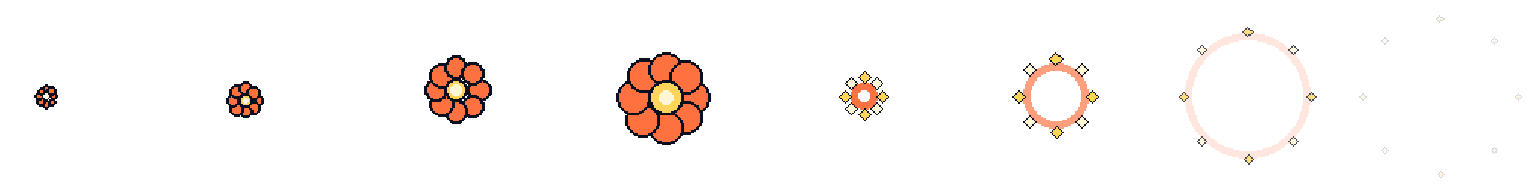
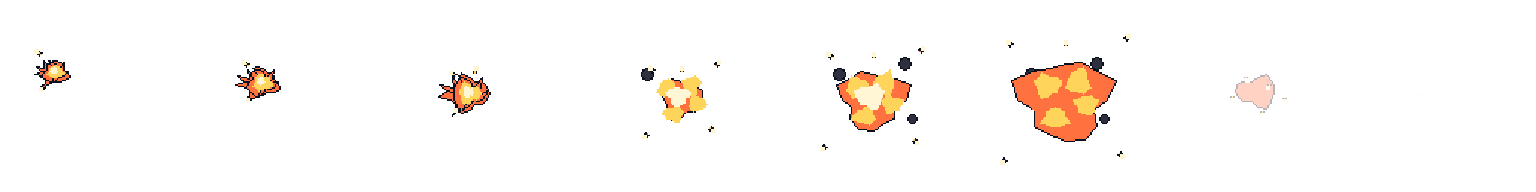
fix(fx): redraw fireball as a real fireball and explosion (T43)

diff --git a/tools/art/make_skill_fx.py b/tools/art/make_skill_fx.py
@@ -100,31 +100,107 @@ def frame(skill, index, n, size):
                         WHITE if t < .82 else GOLD)
 
     elif skill == "fireball":
-        # Ember swells and wobbles, then leaves an expanding ring and embers.
-        if t < .54:
-            q = ease(t/.54)
-            r = 5 + 17*q
-            x = int(31 + 33*ease(t/.54))
-            y = int(64 + math.sin(t*math.pi*5)*4)
-            for k in range(8):
-                a = k*math.pi/4
-                wobble = 1 + .09*math.sin(t*math.pi*8+k)
-                xx, yy = x+math.cos(a)*r*wobble, y+math.sin(a)*r*wobble
-                d.ellipse((int(xx-r*.55),int(yy-r*.55),int(xx+r*.55),int(yy+r*.55)),
-                          fill=RED, outline=NAVY, width=2)
-            d.ellipse((x-r*.55,y-r*.55,x+r*.55,y+r*.55),fill=GOLD,outline=NAVY,width=2)
-            d.ellipse((x-r*.24,y-r*.24,x+r*.24,y+r*.24),fill=WHITE)
+        # A compact, uneven flame travels into a blobby impact and breaks into embers.
+        def fire_blob(cx, cy, rx, ry, phase, color, alpha=255, outline=True):
+            points = []
+            for k in range(16):
+                a = 2 * math.pi * k / 16
+                wobble = (1 + .18 * math.sin(3 * a + phase)
+                          + .11 * math.sin(5 * a - phase) + .05 * math.sin(7 * a + phase))
+                points.append((int(cx + math.cos(a) * rx * wobble),
+                               int(cy + math.sin(a) * ry * wobble)))
+            d.polygon(points, fill=(*ImageColor(color), alpha),
+                      outline=(10, 16, 32, alpha) if outline else None)
+
+        def ImageColor(color):
+            if isinstance(color, tuple):
+                return color
+            return tuple(int(color[i:i+2], 16) for i in (1, 3, 5))
+
+        def flame_tail(cx, cy, scale, alpha=255):
+            # Three pointed tongues stream back along the projectile's path.
+            tongues = [
+                [(-4, -3), (-11, -10), (-10, -3), (-18, -5), (-12, 1), (-5, 2)],
+                [(-5, 1), (-13, -1), (-19, 2), (-12, 4), (-8, 8), (-4, 4)],
+                [(-3, 4), (-9, 8), (-11, 14), (-5, 10), (0, 7)],
+            ]
+            for j, tongue in enumerate(tongues):
+                pts = [(int(cx + x * scale), int(cy + y * scale)) for x, y in tongue]
+                color = RED if j == 0 else (255, 113, 63)
+                if isinstance(color, str):
+                    color = ImageColor(color)
+                d.polygon(pts, fill=(*color, alpha), outline=(10, 16, 32, alpha))
+
+        def spark(x, y, dx, dy, alpha=255, color=GOLD):
+            # Short square streak plus a bright block at its tip.
+            line([(int(x), int(y)), (int(x + dx), int(y + dy))], (10, 16, 32, alpha), 3)
+            line([(int(x), int(y)), (int(x + dx), int(y + dy))], (*ImageColor(color), alpha), 1)
+            d.rectangle((int(x + dx) - 1, int(y + dy) - 1,
+                         int(x + dx) + 1, int(y + dy) + 1), fill=(*ImageColor(WHITE), alpha))
+
+        if index <= 2:
+            # Move down-right while the fireball grows; all tongues trail upper-left.
+            q = index / 2
+            cx, cy = 37 + index * 10, 48 + index * 7
+            scale = .72 + q * .36
+            flame_tail(cx, cy, scale, 255)
+            fire_blob(cx, cy, 8 + index * 2, 7 + index * 2, index * .8, RED)
+            fire_blob(cx, cy, 6 + index, 5 + index, index * .8 + .5,
+                      (255, 113, 63), outline=False)
+            # Uneven orange tongues break the silhouette so it reads as fire, not petals.
+            for pts in (
+                [(-4, -5), (-8, -12), (-1, -9), (2, -5)],
+                [(3, -5), (8, -11), (7, -4), (5, -1)],
+                [(5, 1), (12, -2), (8, 4), (4, 5)],
+                [(-2, 5), (-5, 11), (-1, 8), (2, 5)],
+            ):
+                shape = [(cx + int(x * scale), cy + int(y * scale)) for x, y in pts]
+                d.polygon(shape, fill=(255, 113, 63, 255), outline=(10, 16, 32, 255))
+            fire_blob(cx, cy, 5 + index, 4 + index, index * .8, GOLD, outline=False)
+            fire_blob(cx - 1, cy - 1, 2 + index // 2, 2 + index // 2,
+                      index * .8, WHITE, outline=False)
+            spark(cx - 10, cy - 12, -3, -2)
+            spark(cx - 8, cy + 9, -2, 2, color=RED)
+            if index == 2:
+                spark(cx + 3, cy - 14, 1, -3)
+        elif index <= 5:
+            # Irregular blast swells over three frames; dark puffs and embers escape it.
+            q = (index - 3) / 2
+            cx, cy = 70, 66
+            rx, ry = 13 + q * 17, 12 + q * 14
+            # Smoke stays behind the flame, pushed outward as the blast grows.
+            for dx, dy, r in ((-23, -17, 4), (21, -24, 4), (26, 13, 3)):
+                if index >= 4 or dx < 0:
+                    d.ellipse((cx + dx - r, cy + dy - r, cx + dx + r, cy + dy + r),
+                              fill=(46, 48, 62, 255), outline=(10, 16, 32, 255))
+            fire_blob(cx, cy, rx, ry, index * .7, RED)
+            fire_blob(cx, cy, rx * .78, ry * .76, index * .7 + .8, (255, 113, 63), outline=False)
+            # Broken hot lobes keep the blast chunky and asymmetrical.
+            for dx, dy, sx, sy in ((-9, -7, 8, 7), (7, -9, 7, 8),
+                                   (11, 3, 7, 6), (-5, 10, 8, 6)):
+                fire_blob(cx + dx * (1 + q * .3), cy + dy * (1 + q * .3),
+                          sx * (.8 + q * .25), sy * (.8 + q * .25),
+                          index + dx, GOLD, outline=False)
+            if index < 5:
+                fire_blob(cx - 2, cy - 2, 7 + q * 4, 6 + q * 3,
+                          index, WHITE, outline=False)
+            for j, (sx, sy) in enumerate(((-1, -1), (1, -1), (1, 1), (-1, 1), (0, -1))):
+                distance = 19 + q * 17 + (j % 2) * 4
+                ex, ey = cx + sx * distance, cy + sy * distance
+                spark(ex, ey, sx * 2, sy * 2, color=GOLD if j % 2 == 0 else RED)
         else:
-            q = ease((t-.54)/.46)
-            radius = 8 + 43*q
-            alpha = int(255*(1-q))
-            d.ellipse((64-radius,64-radius,64+radius,64+radius),
-                      outline=(255,113,63,alpha),width=5)
-            for k in range(8):
-                a=k*math.pi/4
-                dist=12+40*q
-                x,y=64+math.cos(a)*dist,64+math.sin(a)*dist
-                diamond(x,y,max(2,4-int(q*2)),WHITE if k%2 else GOLD)
+            # The blast lifts and collapses; only dim falling embers remain at f7.
+            q = index - 6
+            cx, cy = 70 - q * 4, 61 - q * 7
+            alpha = 105 if index == 6 else 20
+            if index == 6:
+                fire_blob(cx, cy, 13, 10, 4.5, RED, alpha)
+                fire_blob(cx, cy, 8, 6, 4.5, (255, 113, 63), alpha, outline=False)
+            embers = ((-17, 3), (-8, -10), (8, -5), (18, 4), (3, 13))
+            for j, (dx, dy) in enumerate(embers):
+                fall = q * (5 + (j % 3) * 2)
+                spark(cx + dx, cy + dy + fall, (j % 2) * 2 - 1, 2,
+                      alpha, GOLD if j % 2 == 0 else RED)
 
     elif skill == "frost_lance":
         # Spear streaks in; radial shards and an icy ring take over on impact.

diff --git a/.ai/tasks/T43-fireball.md b/.ai/tasks/T43-fireball.md
@@ -1,0 +1,16 @@
+# T43 — Make the fireball FX look like a fireball
+
+In `tools/art/make_skill_fx.py` only the `fireball` strip (8 frames, 192x192, tier ultimate, anchor target) must change.
+Problem (seen in `assets/fx/_contact.png`): early frames look like a flower/petals, and the last frames are a hollow thin ring.
+Make it read as a real fireball in the same chunky pixel style (draw small, upscale nearest, 1 px dark outline `#0a1020`, <= 8 colours):
+- f0-f2: a round fireball (white-yellow core, orange body, red rim) streaks/grows with a flickering flame tail trailing to the upper-left
+  and 2-4 spark pixels; the outline of the ball must be irregular flame tongues, NOT symmetric petals.
+- f3-f5: it hits and explodes: bright white-yellow flash core, irregular orange/red fireball blast (blobby, not a perfect circle) that
+  expands, with embers flying outward and a few smoke-dark puffs.
+- f6-f7: blast shrinks/rises and fades with embers falling; no hollow thin ring; ends almost transparent.
+Keep canvas 192, 8 frames, fps, anchor, tier, the >= 8 px transparent margin, and the adjacent-frame difference check.
+Other skills must stay byte-identical (do not change their code paths; verify with `git diff --stat` that only `assets/fx/fireball/*`,
+`art_source/fx/fireball.png`, `assets/fx/_contact.png`, `assets/fx/_motion.png` and the generator changed).
+Verify: regenerate + slice + `"$GODOT" --headless --path . --import`; LOOK at `_contact.png` and iterate; run
+`tests/client/test_skill_fx.gd` and the full suite (`GODOT=D:\dev-tools\godot\Godot_v4.7.2-stable_win64_console.exe bash tools/run_tests.sh`).
+Do not commit. Report in English: what the fireball does per frame, test summary line.
